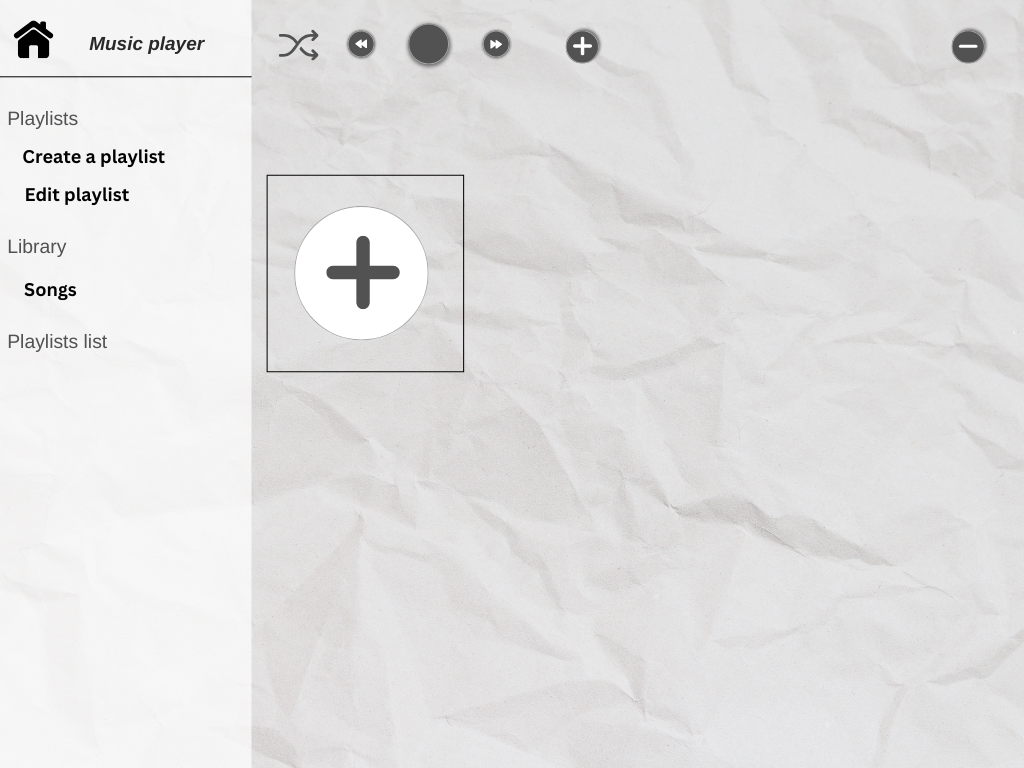
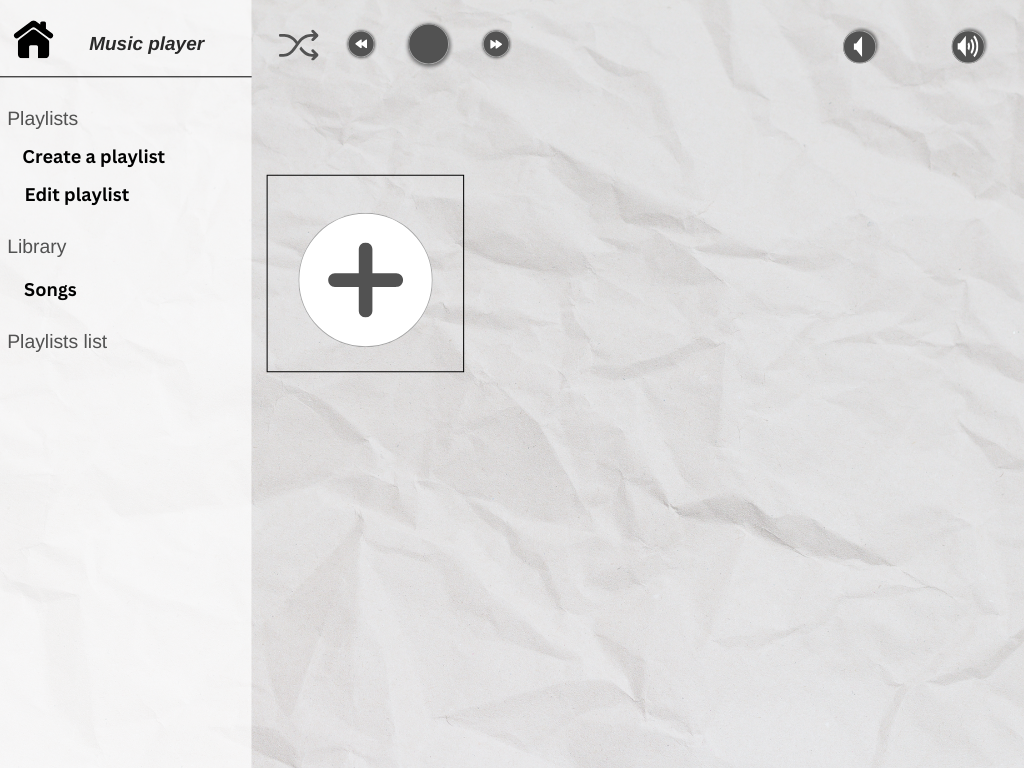
added volume slider, upgraded the music adding process and fixed auto increment

diff --git a/main.py b/main.py
@@ -44,7 +44,6 @@ def main(page: ft.Page):
         if playing_playlist:current_song_index = playlist_list.index(song)
         else: current_song_index = library_list.index(song)
         current_song_text.content.value = os.path.splitext(song)[0]
-        audio_player.on_ended = lambda e: forward(e)
         audio_player.on_position_changed = lambda e: update_progress()
         page.update()
     
@@ -209,23 +208,42 @@ def main(page: ft.Page):
         print("edit playlistClicked")
         pass
 
-    def addSongClicked(e, currentmusicfile):
-        if youtubeLinkField.content.value == "":
-            file_path = currentmusicfile
-            print(currentmusicfile)
-            file_extension = os.path.splitext(file_path)[1]
-            new_file_name = f"{ songNameField.content.value}{file_extension}"  # Rename using song_name
-            destination = os.path.join("Songs", new_file_name)  # Define new path
-            shutil.copy(file_path, destination)
+    def addSongClicked(e, file_path):
+        nonlocal currentmusicfile
+        if songNameField.content.value not in {os.path.splitext(song)[0] for song in library_list}:
+            print(library_list)
+            if youtubeLinkField.content.value == "":
+                print(currentmusicfile)
+                file_extension = os.path.splitext(file_path)[1]
+                new_file_name = f"{ songNameField.content.value}{file_extension}"  # Rename using song_name
+                destination = os.path.join("Songs", new_file_name)  # Define new path
+                shutil.copy(file_path, destination)
+                youtubeLinkField.content.disabled = False
+                filenamedisplay.content.value = ""
+                songNameField.content.value = ""
+                currentmusicfile = ""
+                addsongButton.visible = False
+            else:
+                try:
+                    yt = YouTube(youtubeLinkField.content.value)
+                    audio_stream = yt.streams.filter(only_audio=True).first()
+                    os.makedirs("Songs", exist_ok=True)
+                    audio_file = audio_stream.download(output_path="Songs")
+                    mp3_file = os.path.join("Songs", songNameField.content.value + ".mp3")
+                    os.rename(audio_file, mp3_file)
+                    addsongfile.visible = True
+                    filenamedisplay.content.value = ""
+                    addsongButton.visible = False
+                except:
+                    filenamedisplay.content.color = 'red'
+                    filenamedisplay.content.value = "Invalid Link"
         else:
-            yt = YouTube(youtubeLinkField.content.value)
-            audio_stream = yt.streams.filter(only_audio=True).first()
-            os.makedirs("Songs", exist_ok=True)
-            audio_file = audio_stream.download(output_path="Songs")
-            mp3_file = os.path.join("Songs", songNameField.content.value + ".mp3")
-            os.rename(audio_file, mp3_file)
+            filenamedisplay.content.color = 'red'
+            filenamedisplay.content.value = "Invalid Name"
         songs_table_load()
         page.update
+        filenamedisplay.content.color = 'black'
+        filenamedisplay.content.value = ""
     
     def songsScreen(e):
         lobbyDesign.src=get_asset_path("songsScreen.png")
@@ -235,14 +253,15 @@ def main(page: ft.Page):
         page.update()
     
     def addSongFileClicked(e, page): 
-        nonlocal currentmusicfile 
+        nonlocal currentmusicfile, currentmusicfile2 
         if filenamedisplay.content.value == "":      
             def fileSelected(e: ft.FilePickerResultEvent):
-                nonlocal currentmusicfile 
+                nonlocal currentmusicfile, currentmusicfile2 
                 if e.files:
                     file = e.files[0]
                     filenamedisplay.content.value = file.name
                     currentmusicfile = file.path
+                    currentmusicfile2 = file.path
                 page.update()
 
             filePicker = ft.FilePicker(on_result=fileSelected)
@@ -258,8 +277,10 @@ def main(page: ft.Page):
             page.update()
 
     def check_add_change(e):
+        nonlocal currentmusicfile, currentmusicfile2
         if songNameField.content.value != "" and (youtubeLinkField.content.value != "" or currentmusicfile != ""):
             addsongButton.visible = True
+            currentmusicfile = currentmusicfile2
         else:
             addsongButton.visible = False
         page.update()
@@ -291,6 +312,8 @@ def main(page: ft.Page):
         progress = 0
         if current_position != None and duration != None: progress = (current_position / duration)
         progress_bar.content.value = progress
+        if current_position == duration:
+            forward(None)
         page.update()
     
 
@@ -331,20 +354,30 @@ def main(page: ft.Page):
         
     def forward(e):
         nonlocal current_song_index
-        if current_song_index + 1 < len(library_list):
-            current_song_index += 1
-            playsong(None, library_list[current_song_index])
+        if audio_player.playback_rate == 2:
+            audio_player.playback_rate = 1
+        else:
+            if current_song_index + 1 < len(library_list):
+                current_song_index += 1
+                playsong(None, library_list[current_song_index])
+
+    def speed_up(e):
+        audio_player.playback_rate = 2
+    
+    def volumechange(e):
+        audio_player.volume = e.control.value/100
     
         
     #? On the Home Screen
     lobbyDesign = ft.Image(src=get_asset_path("music player.png"))
     addplaylistButton = ft.Container(bgcolor="transparent",width=200,height=193,left=257,top=167,padding=10,on_click=createPlaylistScreen) # The + Square at home-screen
-    playButton = ft.Container(content=ft.IconButton(icon=ft.Icons.PLAY_ARROW,on_click=musicPlay,icon_color="white"),bgcolor="transparent",left=384,top=13,padding=10,visible=True) # The play button in Home
+    playButton = ft.Container(content=ft.IconButton(icon=ft.Icons.PLAY_ARROW,on_click=musicPlay,icon_color="white"),bgcolor="transparent",left=390,top=13,padding=10,visible=True) # The play button in Home
     shuffleButton = ft.Container(bgcolor="transparent",width=43,height=40,left=265,top=25,padding=10,on_click=shuffle) # The button to shuffle the songs
     rewindButton = ft.Container(bgcolor="transparent",width=30,height=30,left=336,top=27,padding=10,on_click=rewind)
-    forwardButton = ft.Container(bgcolor="transparent",width=30,height=30,left=465,top=28,padding=10,on_click=forward)
-    progress_bar = ft.Container(content=ft.ProgressBar(width=335, value=0, color="white"),bgcolor="transparent",left=582,top=34,padding=10)
-    current_song_text = ft.Container(content=ft.Text("", color="black", size=20), top=8, left=610, visible=False)
+    forwardButton = ft.Container(bgcolor="transparent",width=30,height=30,left=465,top=28,padding=10,on_click=forward, on_long_press=speed_up)
+    progress_bar = ft.Container(content=ft.ProgressBar(width=280, value=0, color="white"),bgcolor="transparent",left=510,top=34,padding=10)
+    current_song_text = ft.Container(content=ft.Text("", color="black", size=20), top=8, left=520, visible=False)
+    volume_slider = ft.Container(content=ft.Slider(min=0, max=100,value=100, on_change=volumechange, width=100,active_color="white"),left=846,top=21)
 
 
     #? sideBarButtons
@@ -403,6 +436,7 @@ def main(page: ft.Page):
     songNameField = ft.Container(content=ft.TextField(color="black",border_color="black", hint_text="Enter Song Name:", text_size=20, width=450, cursor_color="black", bgcolor="white", on_change=check_add_change),bgcolor="transparent",left=290,top=85.5,padding=10,visible=False)
     youtubeLinkField = ft.Container(content=ft.TextField(color="black",border_color="black", hint_text="Enter Youtube Link:", text_size=20, width=350, cursor_color="black", bgcolor="white", on_change=check_add_change),bgcolor="transparent",left=570,top=175,padding=10,visible=False)
     currentmusicfile = ""
+    currentmusicfile2 = ""
     filenamedisplay = ft.Container(content=(ft.Text("", color="black")), top=245, left= 300)
     addsongButton = ft.Container(bgcolor="transparent",width=158,height=51,left=782,top=97,padding=10,on_click= lambda e: addSongClicked(e, currentmusicfile), visible=False)
     addsongfile = ft.Container(bgcolor="transparent",width=155,height=51,left=298,top=187,padding=10,on_click=lambda e: addSongFileClicked(e,page), visible=False, on_tap_down=check_add_change)
@@ -411,7 +445,7 @@ def main(page: ft.Page):
     playlistCoverButton,coverImage,playlistNameButton,playlistDescriptionField,playlistSaveButton,playButton,
     progress_bar,homeButton,shuffleButton,rewindButton,forwardButton,playButtonPlaylist,shuffleButtonPlaylist,
     coverImagePlaylist,songsQuantity, songs_scrollable_table ,playlistSongsList,playListSongs,librarySongs,audio_player,
-    songNameField, youtubeLinkField, addsongButton, addsongfile, homeContainer, filenamedisplay, current_song_text])
+    songNameField, youtubeLinkField, addsongButton, addsongfile, homeContainer, filenamedisplay, current_song_text, volume_slider])
     
     page.add(designStack)
     page.update()
